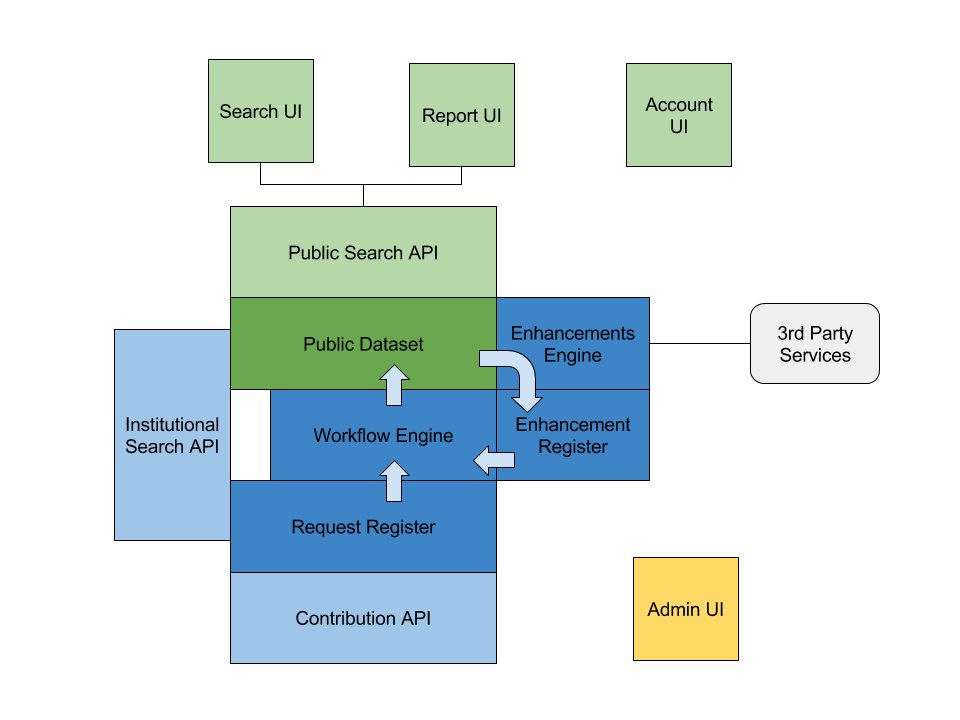
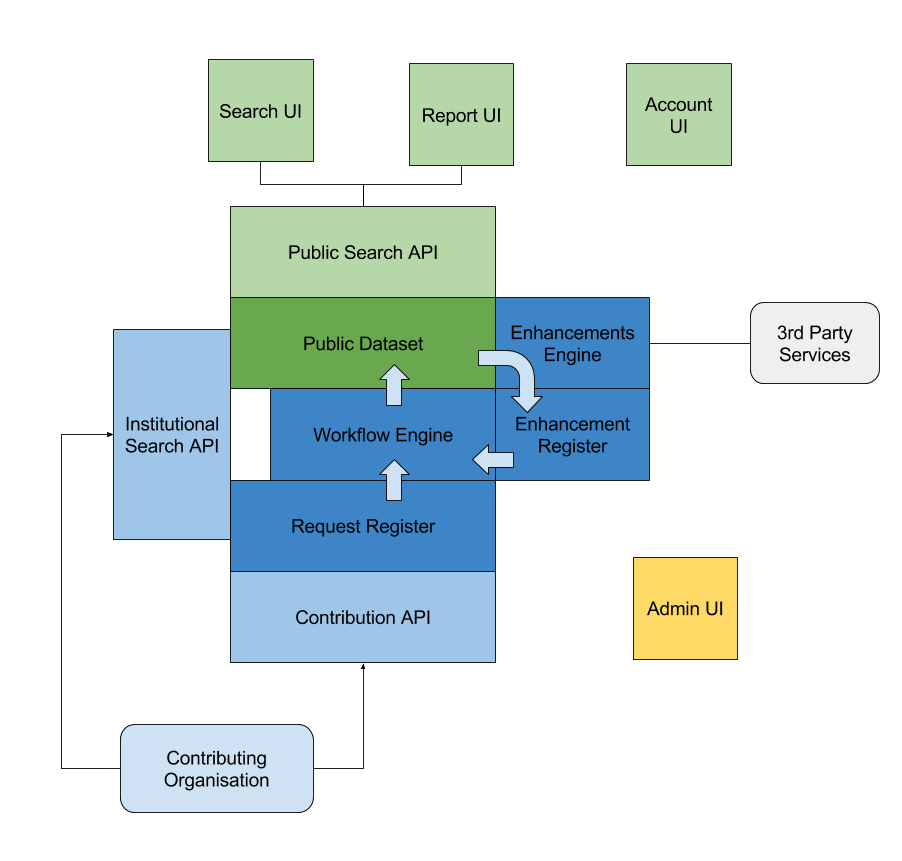
various documentation updates

diff --git a/docs/system/MERGE.md b/docs/system/MERGE.md
@@ -1,40 +1,56 @@
 # Metadata merge rules for Public records
 
+This document describes the rules used when merging the metadata between
+two PublicAPC records.  This can happen when more than one Request is
+made for an article with the same identifier.
+
+Merge takes place between a "target" (the original PublicAPC record) and
+a "source" (the incoming record).
+
+There are several rules that are applied, as follows:
+
+* **Copy if missing** - the target receives a copy of this metadata from the source only if it does not already have that field itself
+* **Override** - the target's copy of this metadata is always replaced by that from the source, if it is exists in the source.
+* **Append lists** - values from the source are appended to the lists in the target.  If the list does not exist in the target, it is created.  If values in the source are duplicates of those in the target, they are removed
+
+Merge of the objects happens recursively.  If a field is a complex type (i.e. a sub-object), the
+internal structure of the object is also merged.
+
 ## Copy if missing
 
-dcterms:dateSubmitted
-dcterms:dateAccepted
-rioxxterms:publication_date
-dc:identifier
-rioxxterms:type
-dc:title
-dc:subject
-rioxxterms:author
-rioxxterms:contributor
-dcterms:publisher
-dc:source
-rioxxterms:project
-ali:license_ref
-jm:license_received
-jm:repository
-jm:provenance
+* dcterms:dateSubmitted
+* dcterms:dateAccepted
+* rioxxterms:publication_date
+* dc:identifier
+* rioxxterms:type
+* dc:title
+* dc:subject
+* rioxxterms:author
+* rioxxterms:contributor
+* dcterms:publisher
+* dc:source
+* rioxxterms:project
+* ali:license_ref
+* jm:license_received
+* jm:repository
+* jm:provenance
 
 ## Override
 
-rioxxterms:version
-ali:free_to_read
+* rioxxterms:version
+* ali:free_to_read
 
-## Append lists (de-duplicated)
+## Append lists
 
-dc:identifier - if type and id are not already present
-dc:subject
-rioxxterms:author - if no author identifiers match
-rioxxterms:contributor - if no contributor identifiers match
-rioxxterms:project - if name or identifiers don't match
-ali:license_ref - if any sub-fields are different
-jm:license_received - if date and result are different
-jm:repository - if repo_url is different
-jm:provenance
+* dc:identifier - if type and id are not already present
+* dc:subject
+* rioxxterms:author - if no author identifiers match
+* rioxxterms:contributor - if no contributor identifiers match
+* rioxxterms:project - if name or identifiers don't match
+* ali:license_ref - if any sub-fields are different
+* jm:license_received - if date and result are different
+* jm:repository - if repo_url is different
+* jm:provenance
 
 ## Merge sub-objects
 
@@ -42,63 +58,60 @@ jm:provenance
 
 #### Copy if missing
 
-name
-identifier
+* name
+* identifier
 
+#### Append lists
 
-#### Append lists (de-duplicated)
-
-identifier - if type and id are not already present
-affiliation - if no affiliation identifiers match
+* identifier - if type and id are not already present
+* affiliation - if no affiliation identifiers match
 
 ### rioxxterms:contributor
 
 #### Copy if missing
 
-name
-identifier
+* name
+* identifier
 
+#### Append lists
 
-#### Append lists (de-duplicated)
-
-identifier - if type and id are not already present
-affiliation - if no affiliation identifiers match
-
+* identifier - if type and id are not already present
+* affiliation - if no affiliation identifiers match
 
 ### dcterms:publisher
 
 #### Copy if missing
 
-name
-identifier
+* name
+* identifier
 
-#### Append lists (de-duplicated)
+#### Append lists
 
-identifier - if type and id are not already present
+* identifier - if type and id are not already present
 
 ### dc:source
 
 #### Copy if missing
 
-name
-identifier
-oa_type
-self_archiving.preprint
-self_archiving.postprint
-self_archiving.publisher
+* name
+* identifier
+* oa_type
+* self_archiving.preprint
+* self_archiving.postprint
+* self_archiving.publisher
 
-#### Append lists (de-duplicated)
+#### Append lists
 
-identifier - if type and id are not already present
+* identifier - if type and id are not already present
 
 ### rioxxterms:project
 
 #### Copy if missing
 
-funder_name
-funder_identifier
-grant_number
+* funder_name
+* funder_identifier
+* grant_number
 
-#### Append lists (de-duplicated)
+#### Append lists
 
-funder_identifier  - if type and id are not already present
+* funder_identifier  - if type and id are not already present

diff --git a/docs/system/DATA_MODELS.md b/docs/system/DATA_MODELS.md
@@ -1,5 +1,29 @@
 # Data Models
 
+## Relational Model
+
+Monitor UK does **not** use a relational database.  All of the models are expressed as documents
+represented in JSON (when used in either storage or memory).  Nonetheless, the documents do contain
+fields which express relationships with other kinds of document.  The diagram below shows the
+core system entities, and their relationships:
+
+![DataModelOverview](https://raw.githubusercontent.com/JiscMonitor/monitor-uk/develop/docs/system/DataModelOverview.png)
+
+Key things to notice about these relationships:
+
+* There are essentially 3 kinds of object: Publishable objects, Public ones, and Accounts.  Enhancements and Requests are 
+just different kinds of Publishable object (in the code, their model objects extend from the Publishable object).
+
+* Publishable objects can be related to Public ones by either an explicit public_id (which refers to the PublicAPC's id field)
+or implicitly by a match between identifiers held in the bibliographic data (e.g. DOI, PMID, PMCID, URLs).
+
+* Requests can have exactly one owner
+
+* PublicAPCs can have as many owners as is necessary - each APC record in the PublicAPC may be "owned" by a different user.
+
+* Enhancements do not have owners, as they are created internally by the system (i.e. no external user can cause an Enhancement to come into existence)*[]: 
+
+
 ## General Structure
 
 The overall structure of the model documents at any point in the system is as follows:

diff --git a/docs/system/WORKFLOWS.md b/docs/system/WORKFLOWS.md
@@ -17,13 +17,13 @@ the provided APC record:
 
 ![Create/Update](https://raw.githubusercontent.com/JiscMonitor/monitor-uk/develop/docs/system/WorkflowCreate.png)
 
-Merging the new/updated record with an existing public record is as follows:
+Merging new/updated APC records with an existing public APC record is as follows:
 
 ![Merge](https://raw.githubusercontent.com/JiscMonitor/monitor-uk/develop/docs/system/WorkflowMerge.png)
 
-The updated record contains APCs from one institution (who delivered the update), and the existing record contains APCs from one or more 
-institutions.  We remove any existing APCs from the institution doing the update, then replace them with the new APCs 
-we’ve been told about.  Finally some basic bibliographic metadata enhancement takes place.
+The incoming request contains APCs from one owner (e.g. an institution who delivered the update), and the existing record contains APCs from one or more 
+other owners (e.g. other institutions who supplied information about this APC record).  We remove any existing APCs owned by the account doing the update, then replace them with the new APCs 
+we've been told about.  Finally some basic bibliographic metadata enhancement takes place.
 
 **Note that this process means that it is not currently possible to replace incorrectly set bibliographic data via the 
 institutional API, when the record comprises of APCs from more than one institution.**

diff --git a/docs/system/OVERVIEW.md b/docs/system/OVERVIEW.md
@@ -1,5 +1,9 @@
 # Monitor UK System Overview
 
+Monitor UK is an aggregation of article publication records, to which are attached one or more APC payments
+by individual institutions.  Data is stored in the system as JSON documents, see the [data models](https://github.com/JiscMonitor/monitor-uk/blob/develop/docs/system/DATA_MODELS.md) documentation
+for information about their structure.
+
 The application has a core public data set which forms the canonical information in the aggregation.
 It is available via various public view mechanisms, such as a search API, graphical reports, and data exports.
 It is constructed by data provided by individual institutions.  Each request from those institutions is stored 
@@ -12,7 +16,7 @@ administrator the ability to step through each institution’s contributions.
 
 ![ArchitectureOverview](https://raw.githubusercontent.com/JiscMonitor/monitor-uk/develop/docs/system/Architecture.png)
 
-The diagram shows how Institutions contribute data via the Institutional CRUD API, and that data makes its way
+The diagram shows how organisations contribute data via the Contribution API, and that data makes its way
 through the Workflow Engine and into the public dataset, where it becomes accessible via the Public Search API.  This 
 public API then drives the Search interface and the Reports interface.
 

diff --git a/docs/PRODUCTION.md b/docs/PRODUCTION.md
@@ -1,6 +1,8 @@
 # Production Environment Description
 
-* Web URL: monitoruk.jisc.ac.uk 
+NOTE: documentation for production set-up valid in October 2016
+
+* Web URL: [monitoruk.jisc.ac.uk](https://monitoruk.jisc.ac.uk) 
 * Main web server domain: search.monitor.jisc.ac.uk
 * SSH access to port 22, firewalled to named IPs
 
@@ -10,3 +12,5 @@
 * Application is installed and operated as per DEPLOY.md
 
 * Elasticsearch instance is provided by the Jisc ES cluster
+* Supervisor configuration is in: /etc/supervisor/conf.d/monitor-uk.conf
+    * in turn, logs are in /var/log/supervisor/app-access.log and /var/log/supervisor/app-error.log
